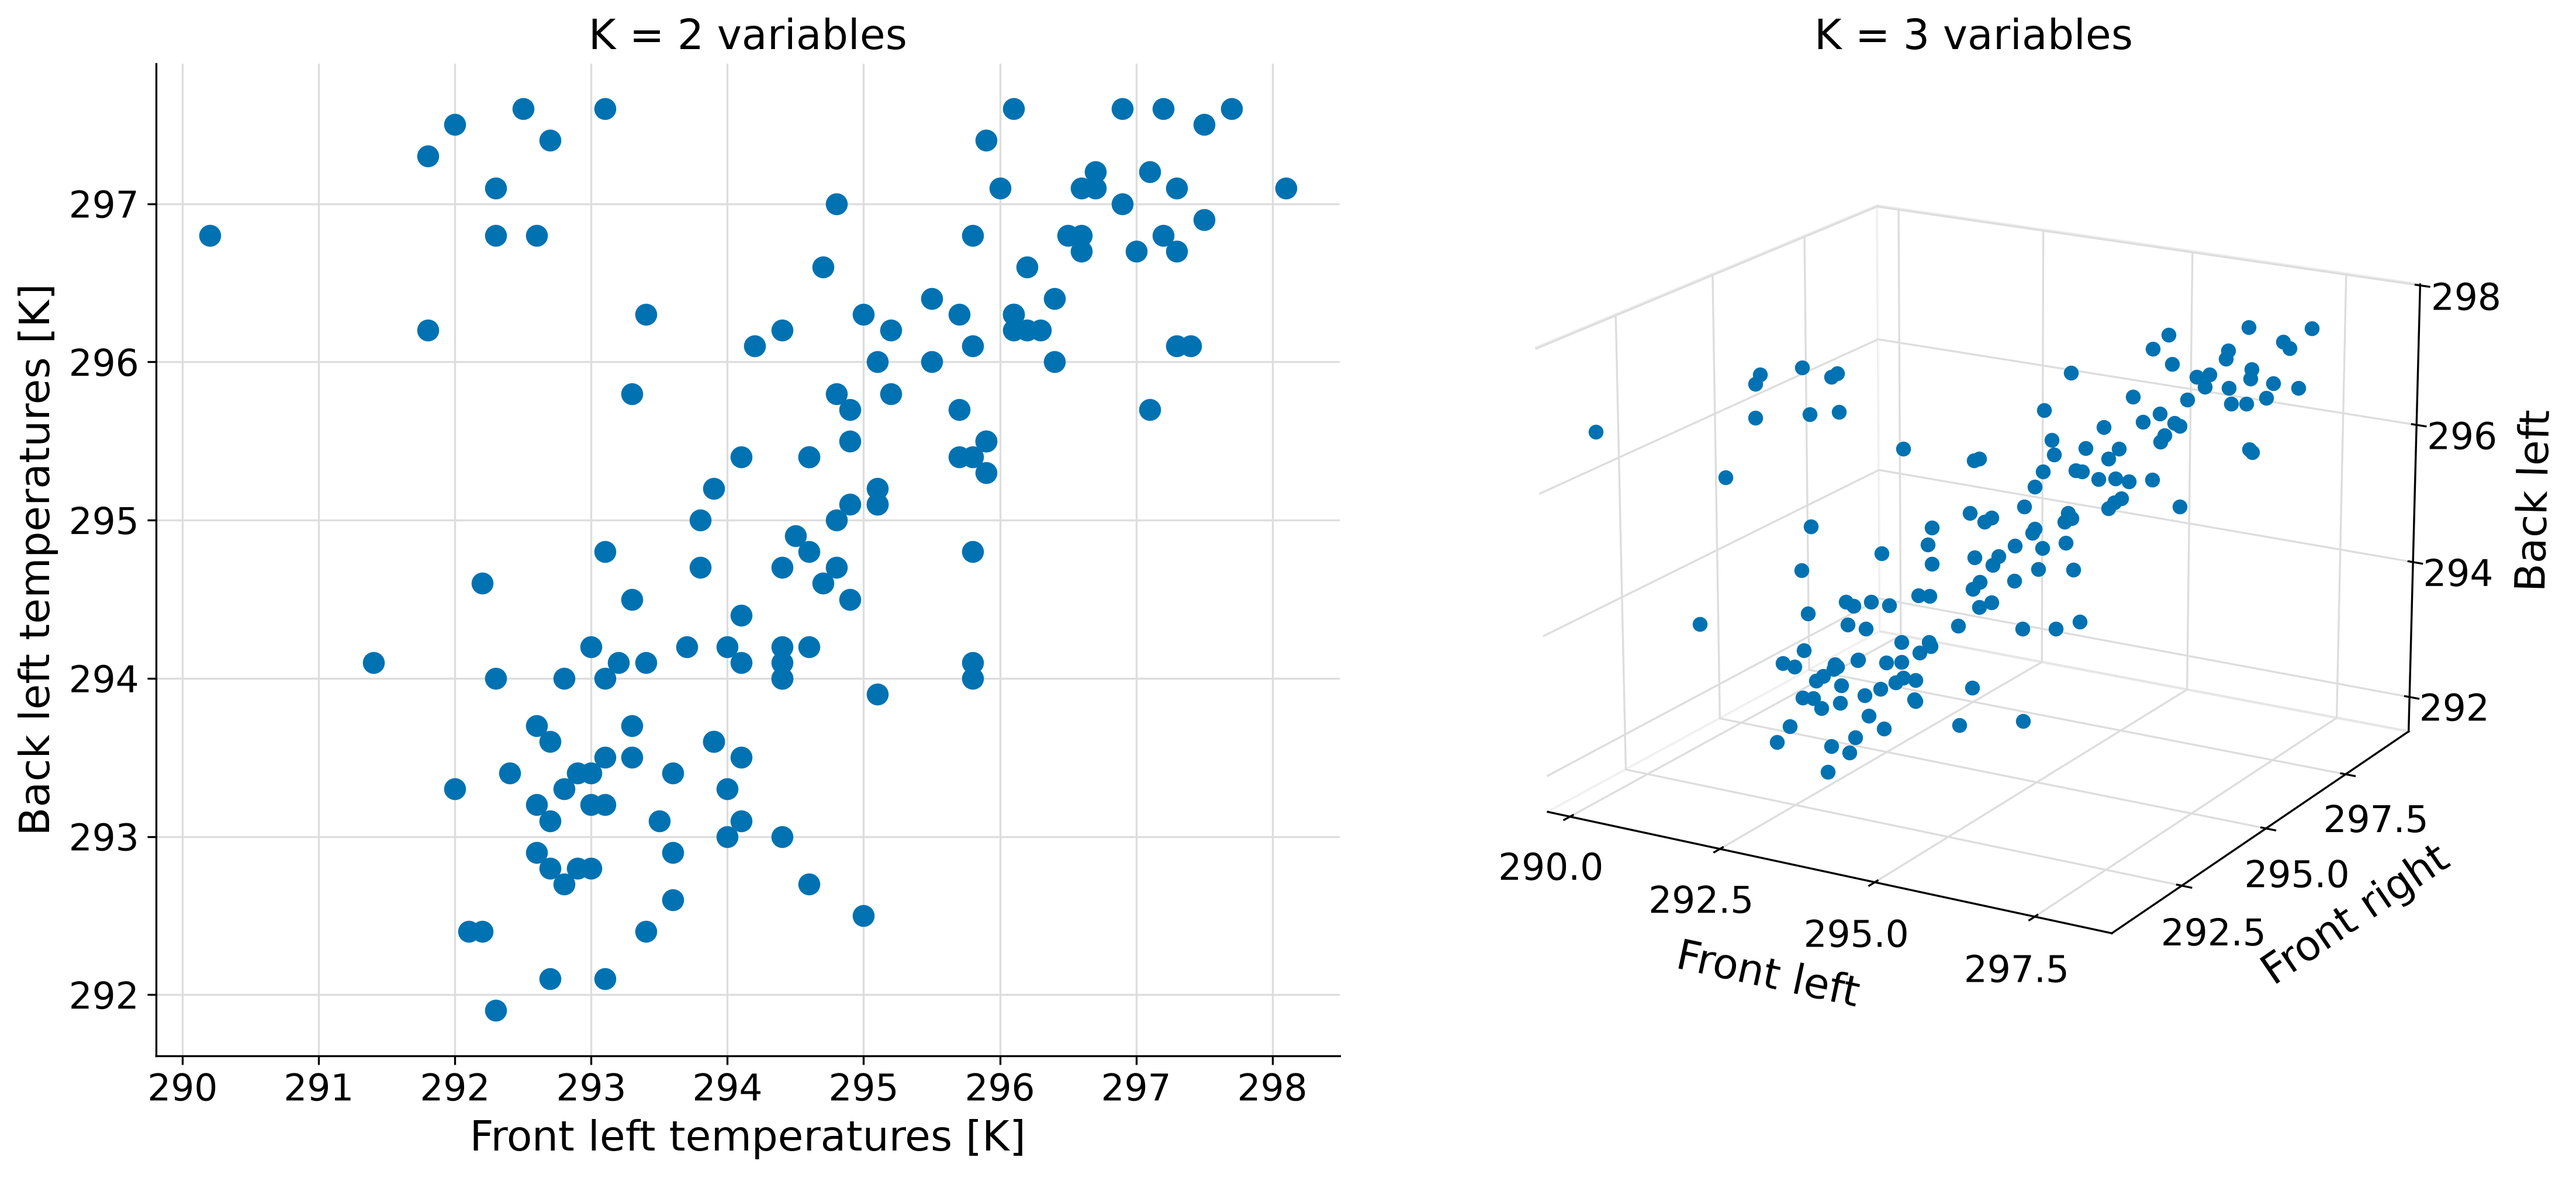
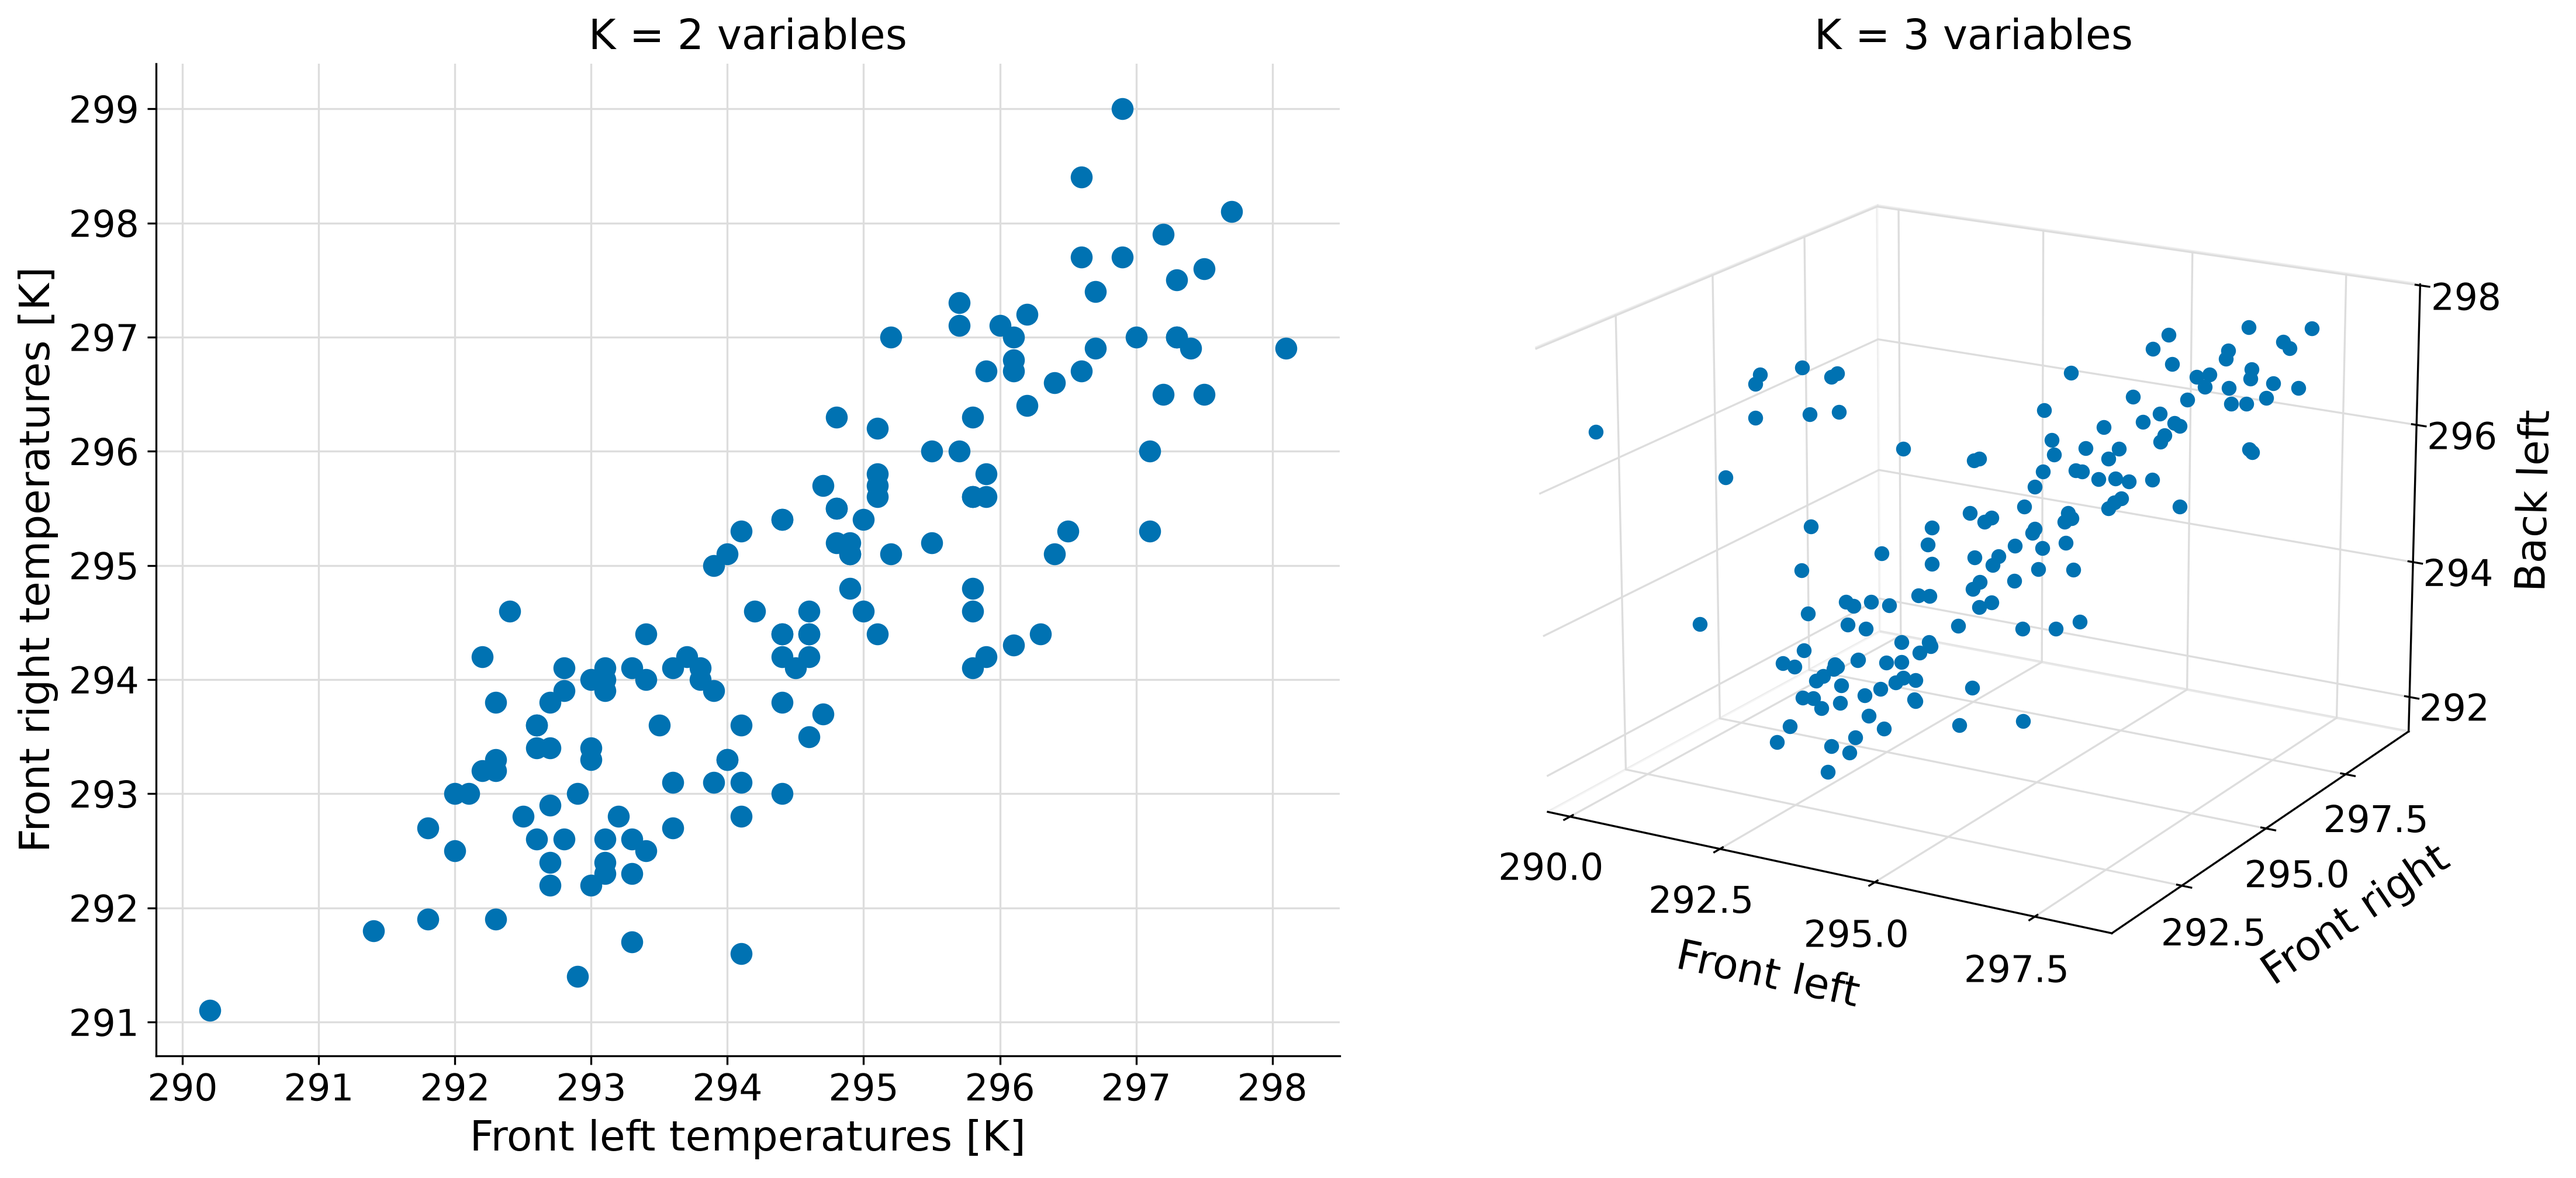
Keep the original variable pair on the room-temperature 2D panel
The original plotted front left against front right and labelled the
y-axis "Back left". I had fixed that by changing the variable to match
the label, which is what put a separate group of about thirty
observations into the plot: front left against back left is opposite
corners of the room, r = 0.56, where the two front thermometers track
each other at r = 0.85.

Correcting the label instead. The prose under this figure asks the
reader to see one definite trend and summarise it with a single line,
which the tight pair does and the loose one does not. The two variables
are also the first two of the three in the panel beside it, so the pair
reads as a step towards it.

The cluster is real, not an artefact, and both panels were always drawn
from the recorded data; it is just not what this figure is for.

diff --git a/examples/room-temperature/room_temperature_pca_figures.py b/examples/room-temperature/room_temperature_pca_figures.py
@@ -141,9 +141,19 @@ def two_and_three_dimensions(data: pd.DataFrame, outdir: pathlib.Path) -> None:
 
     ax = fig.add_subplot(1, 2, 1)
     ax.grid(color=GRID, linewidth=0.8)
-    ax.plot(data["FrontLeft"], data["BackLeft"], "o", markersize=8, color=BLUE)
+    # The original plotted front left against front right, and labelled the
+    # y-axis "Back left". Correcting the label rather than the variable: the
+    # surrounding prose asks the reader to see one definite trend and
+    # summarise it with a line, and these two thermometers sit on the same
+    # side of the room, so they track each other closely (r = 0.85). Front
+    # left against back left is opposite corners, r = 0.56, with a separate
+    # group of about thirty observations where the back ran cool; that is a
+    # real feature of the data, but it is not what this figure is for. The
+    # two variables here are also the first two of the three in the panel
+    # beside it, so the pair reads as a step towards it.
+    ax.plot(data["FrontLeft"], data["FrontRight"], "o", markersize=8, color=BLUE)
     ax.set_xlabel("Front left temperatures [K]")
-    ax.set_ylabel("Back left temperatures [K]")
+    ax.set_ylabel("Front right temperatures [K]")
     ax.set_title("K = 2 variables", fontsize=17)
 
     ax = fig.add_subplot(1, 2, 2, projection="3d")
